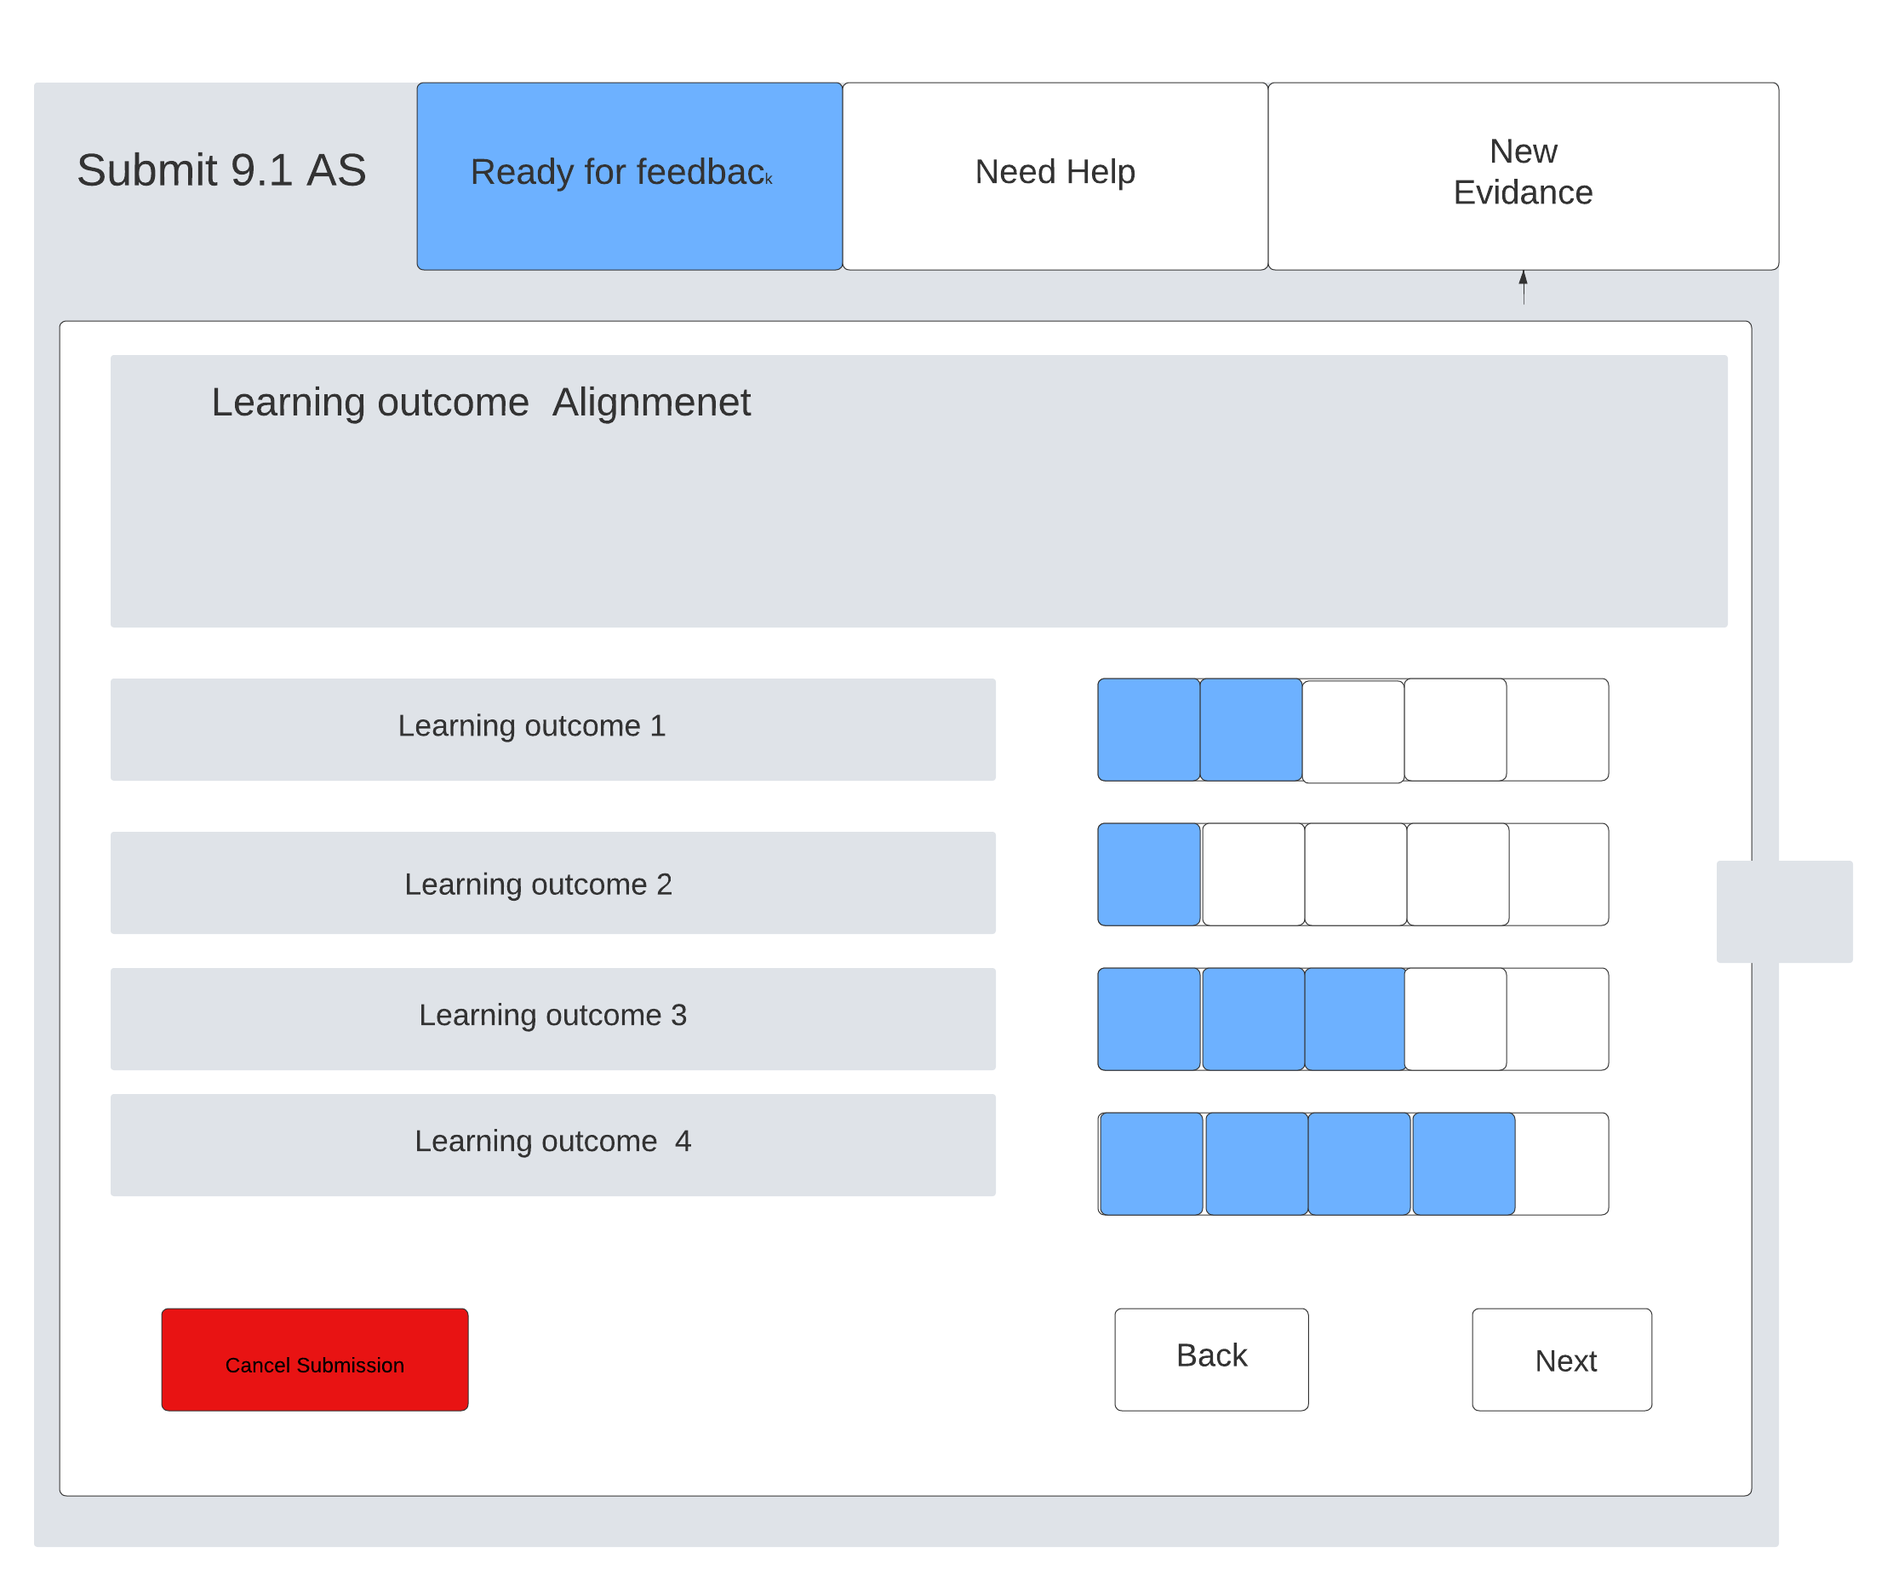
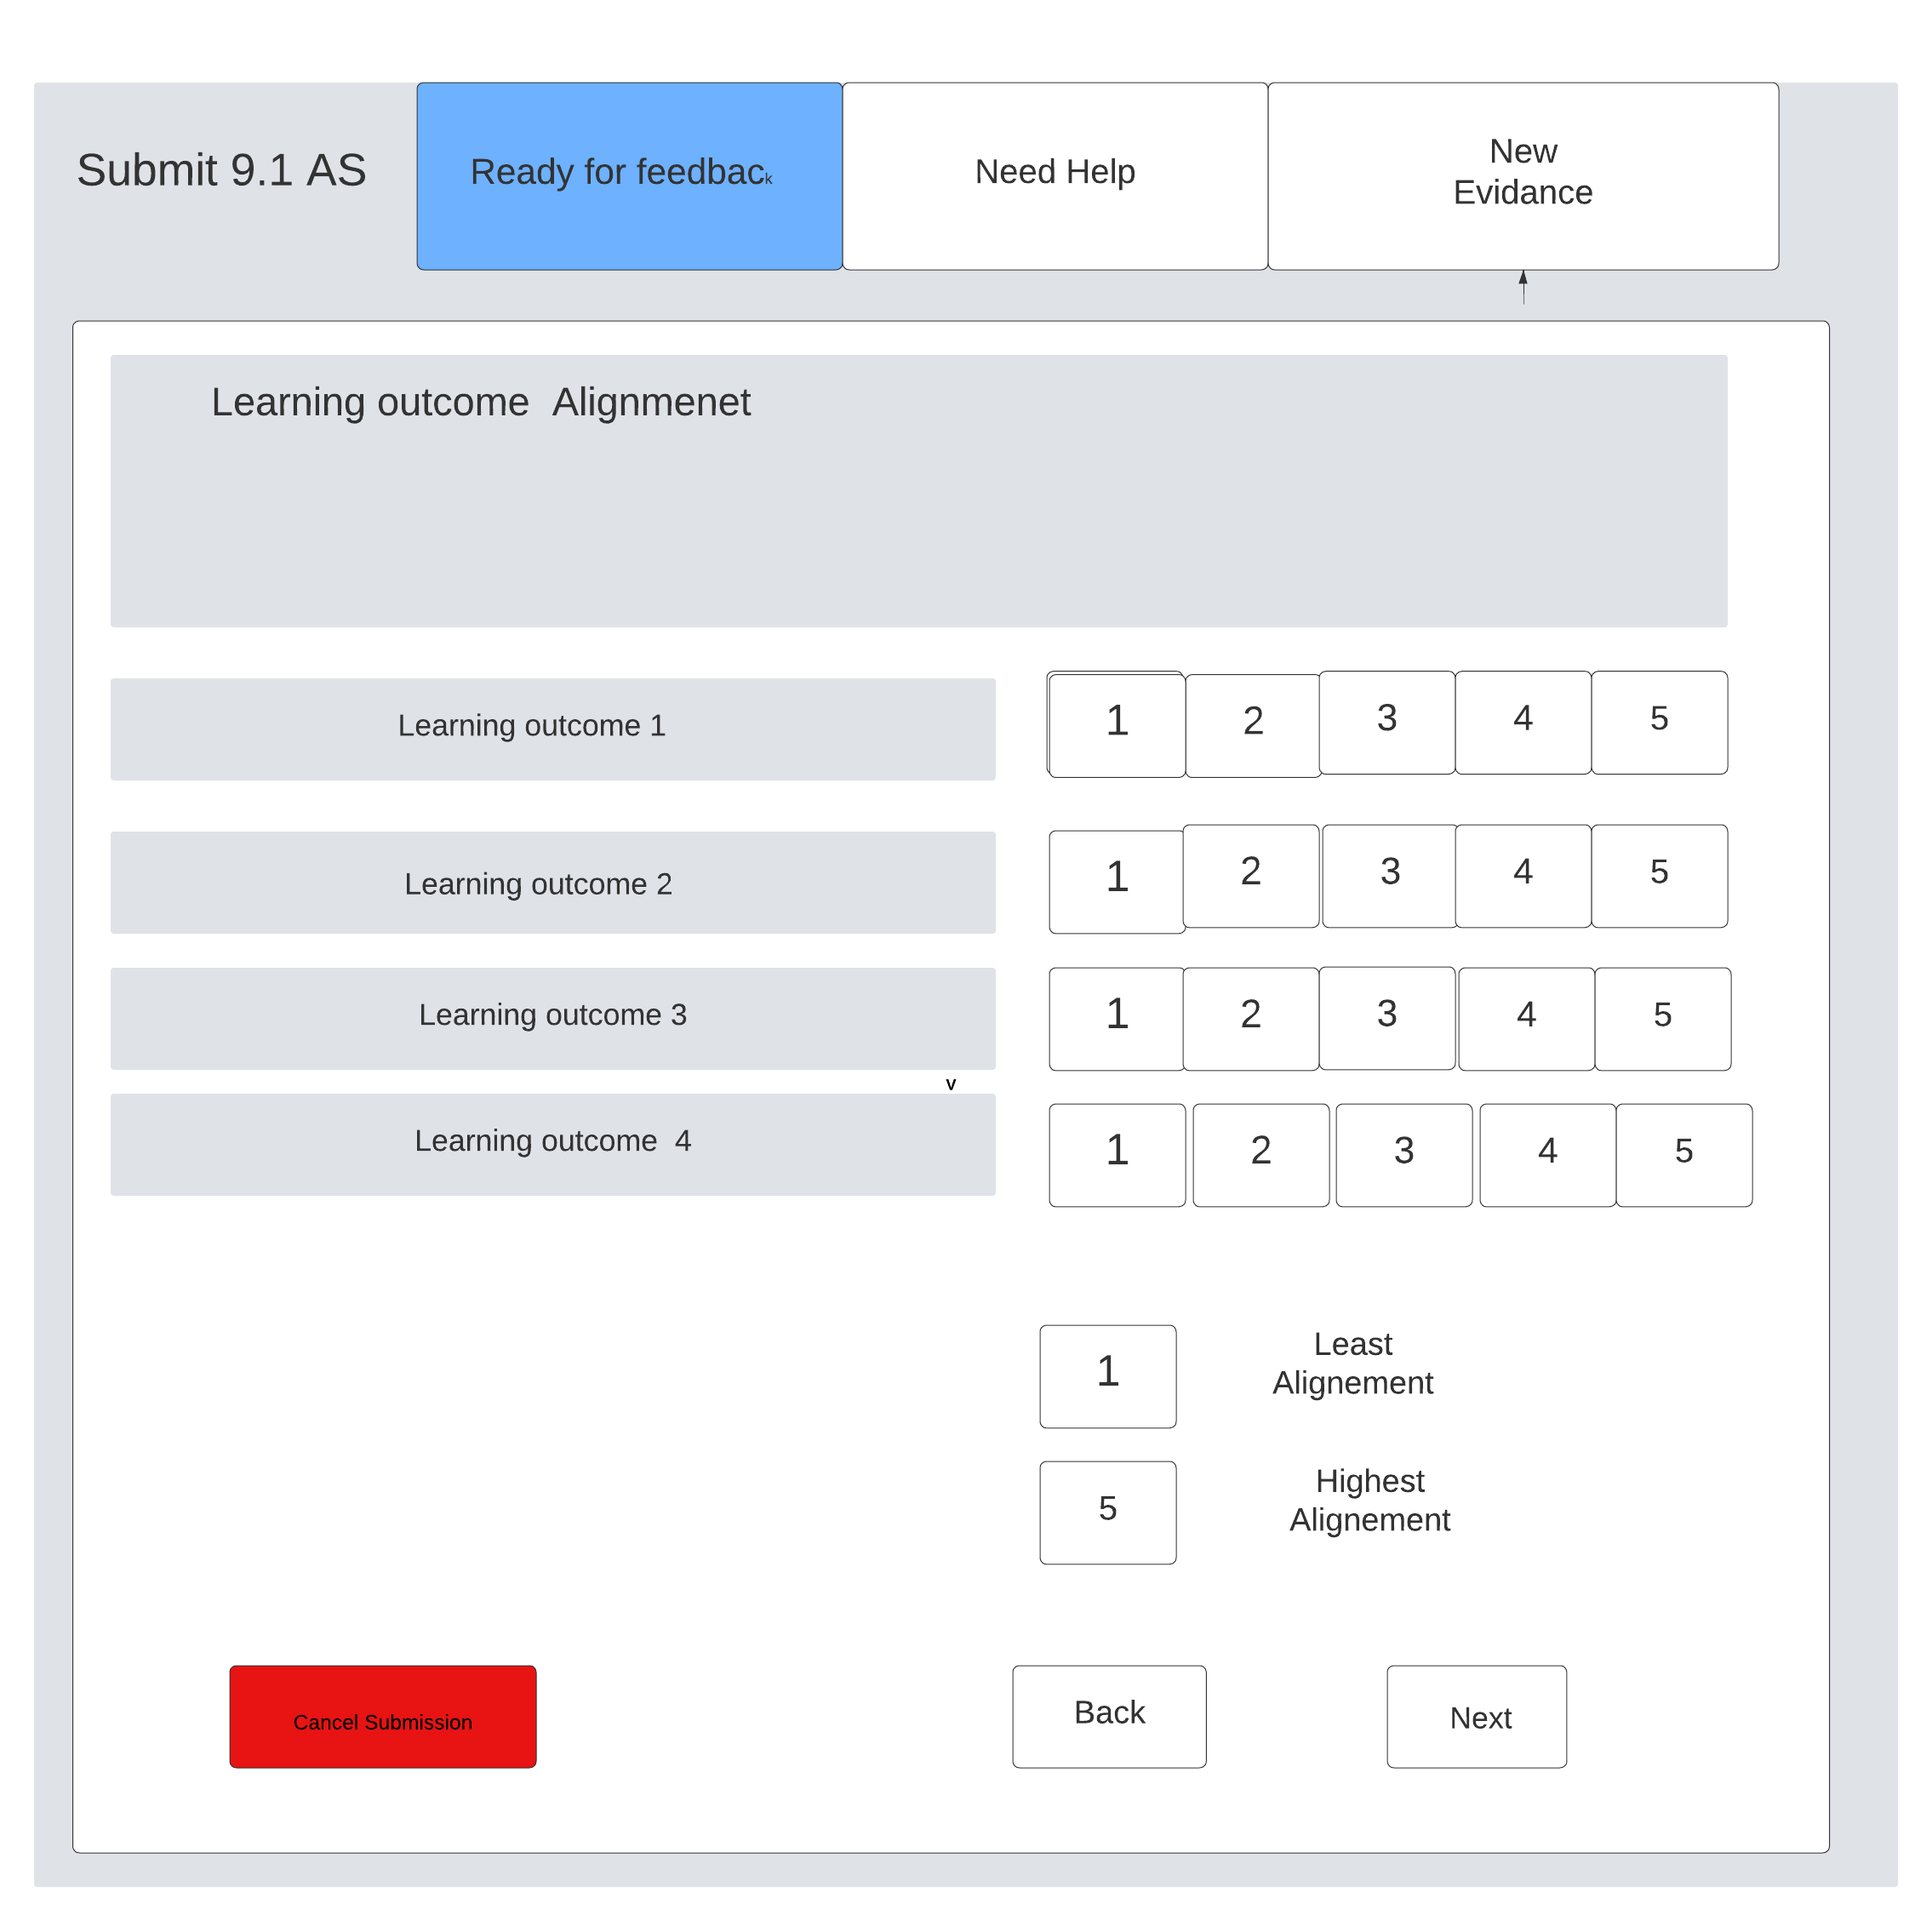
refactor: created review document for rater component updated

diff --git a/src/content/docs/products/ontrack/documentation/front-end-migration/coffee-script-migration/ilo-alignment-rater.md b/src/content/docs/products/ontrack/documentation/front-end-migration/coffee-script-migration/ilo-alignment-rater.md
@@ -17,7 +17,8 @@ It is used to find out to which extend that the student's submitted task is alig
 
 ## Component outcomes/interactions
 
-It measures the ability of the student to align with a given task.
+1. Allow students to align their submitted task with learning outomes.
+2. Currently students can rate their alignment using progress buttons and system saves the user input and display it as a range of numbers as a outcome.
 
 ![existing modal](public/iloalignment-rater-existing.png)
 
@@ -27,18 +28,21 @@ So, in the proposed modal the user provides the following to enhance the exisiti
 In the proposed model , these are the suggested changes;
 
 1. Progress bar which provide the exact percentage that studets align with the learning outcome.
-2. The drop box which is next to the tittle bar can be change to set of tabs.
+2. Rate the learning outcome using the numbering system.
 3. Color chart to find out the ratings of the students regarding the learning outcomes.
 
 New design sketches: Existing UI components are to be used for the input fields and button etc.
 
 ![new modal sketch 1](public/iloalignment-rater-updated1.png)
 ![new modal sketch 2](public/iloalignment-rater-updated2.png)
+![new modal sketch 3](public/iloalignment-rater-updated3.png)
 
 *Component migration Check list* – What is needs to be checked for this component to work once
 migrated?
 
 [ ] ability to collect information from the user
+
+[ ] The rating values should be correctly passed and store (data validation)
 
 [ ] Correct ratings should be represented according to the user input
 
